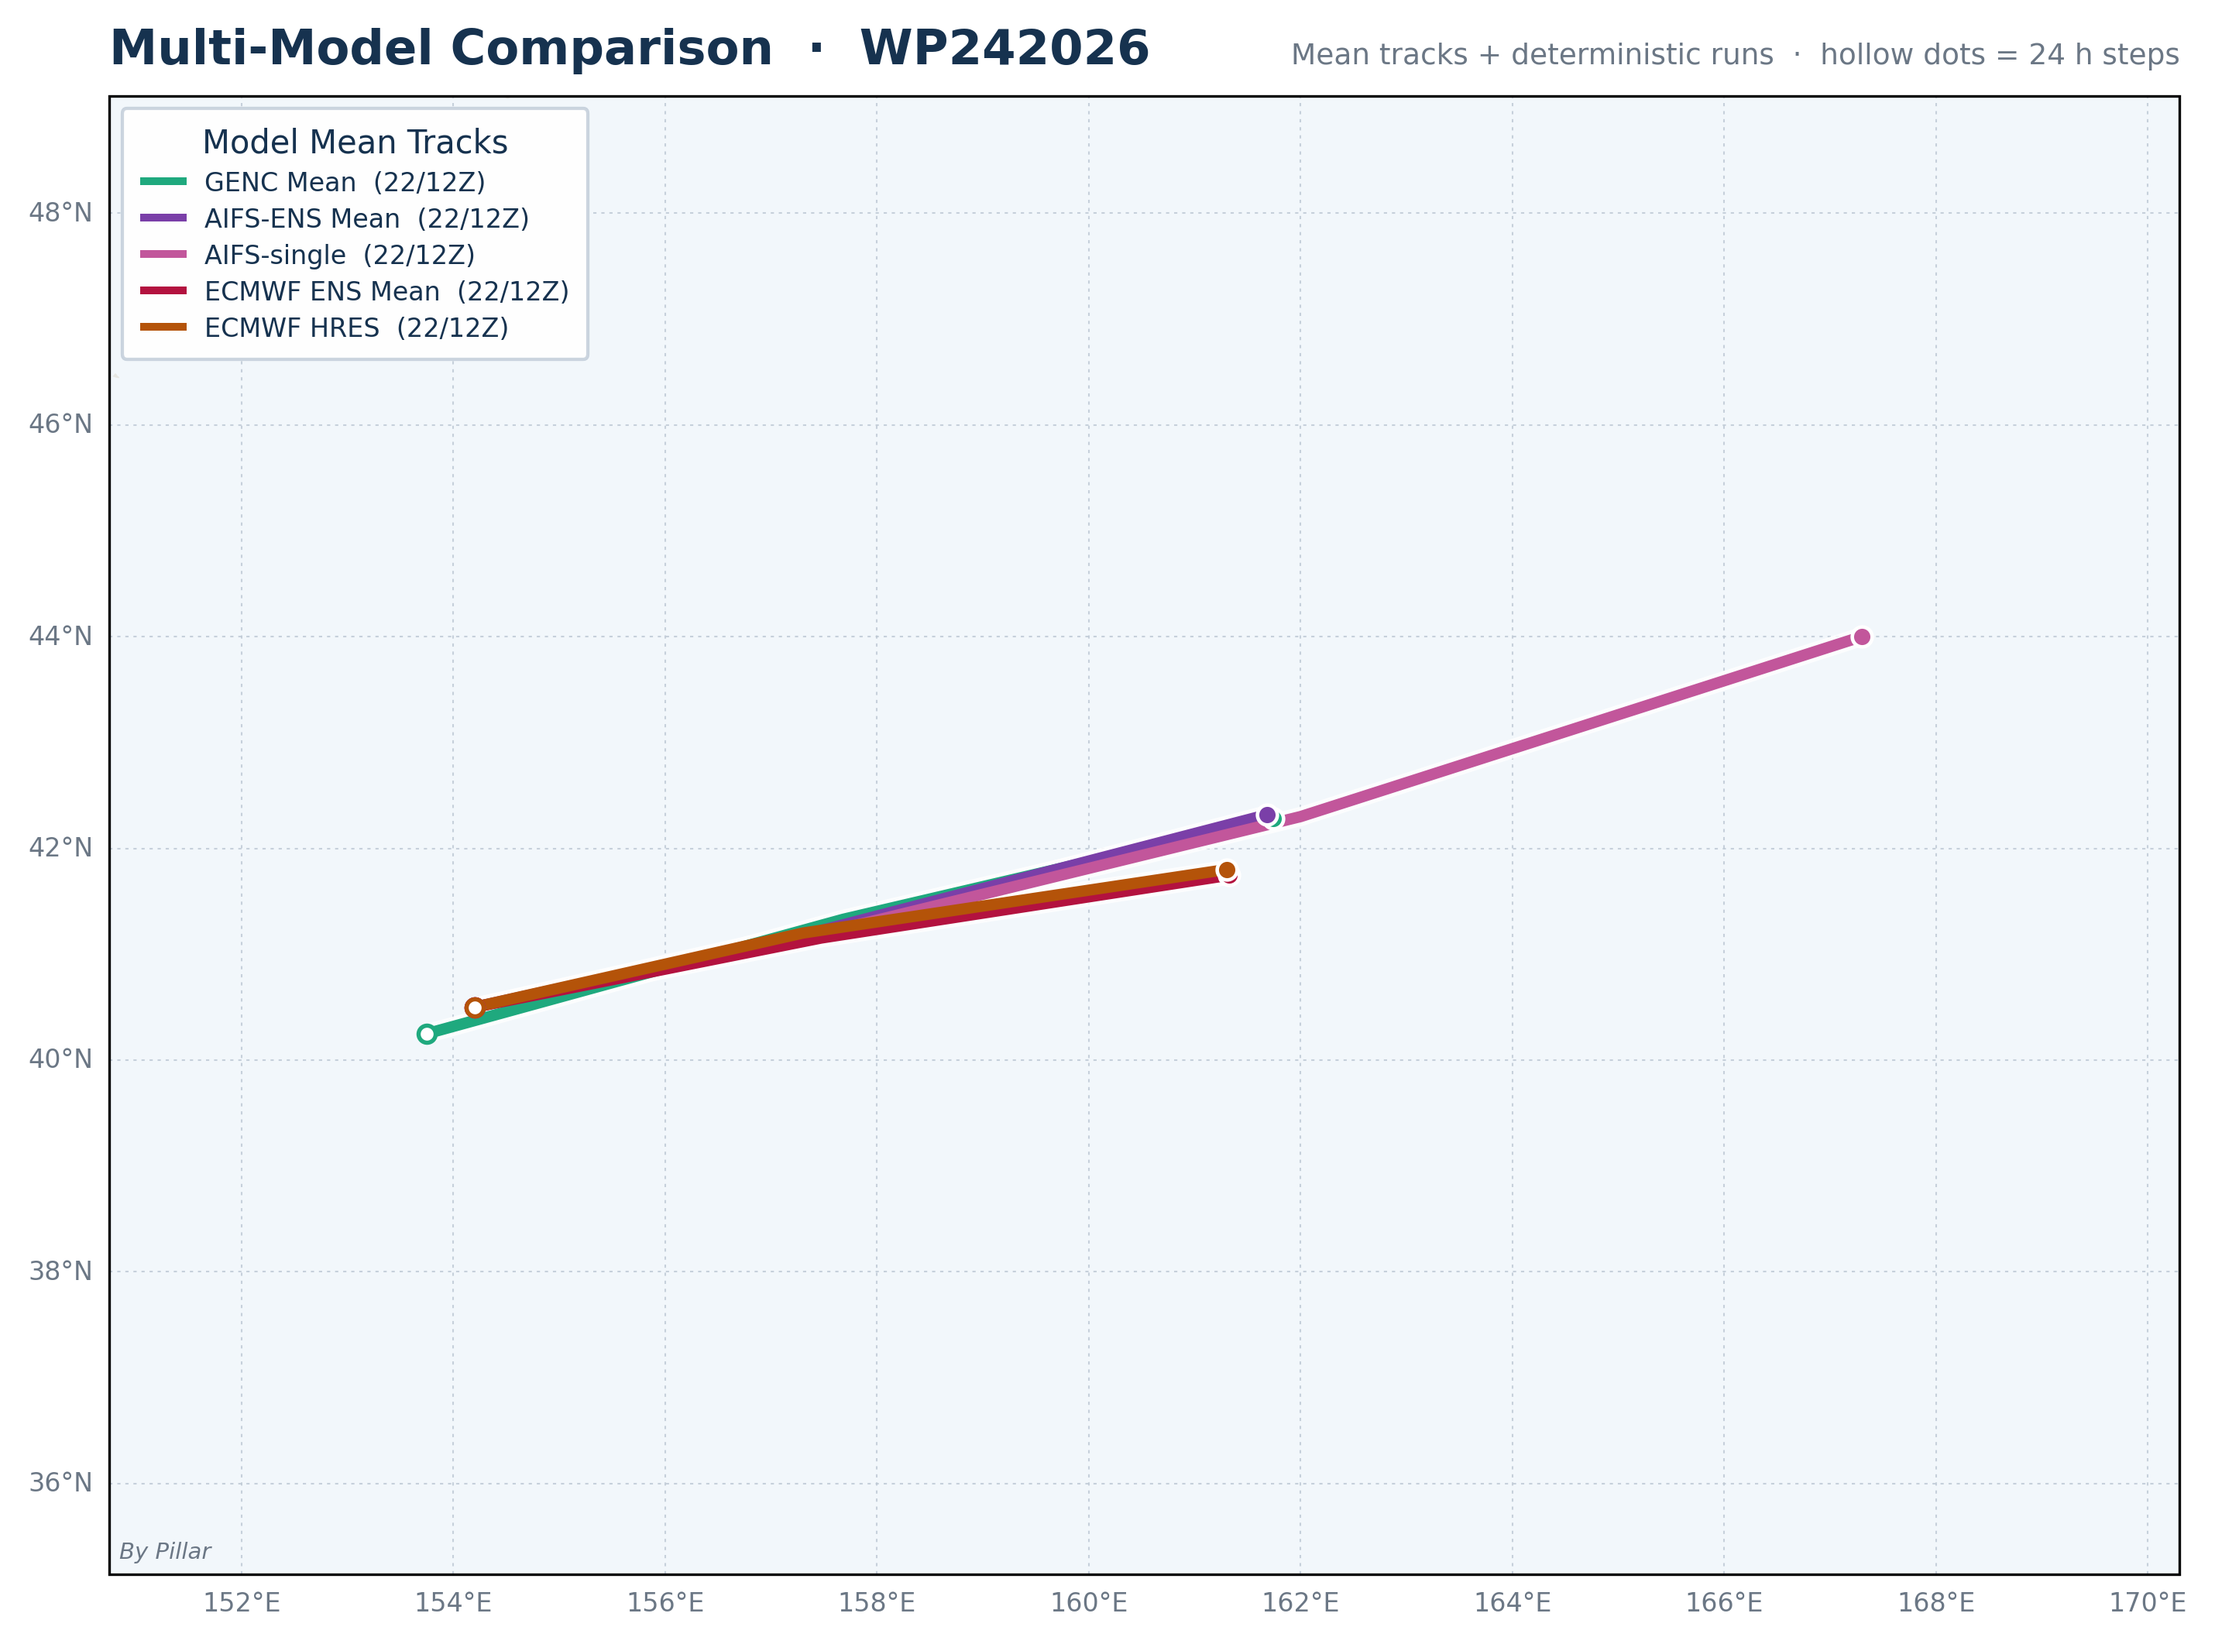
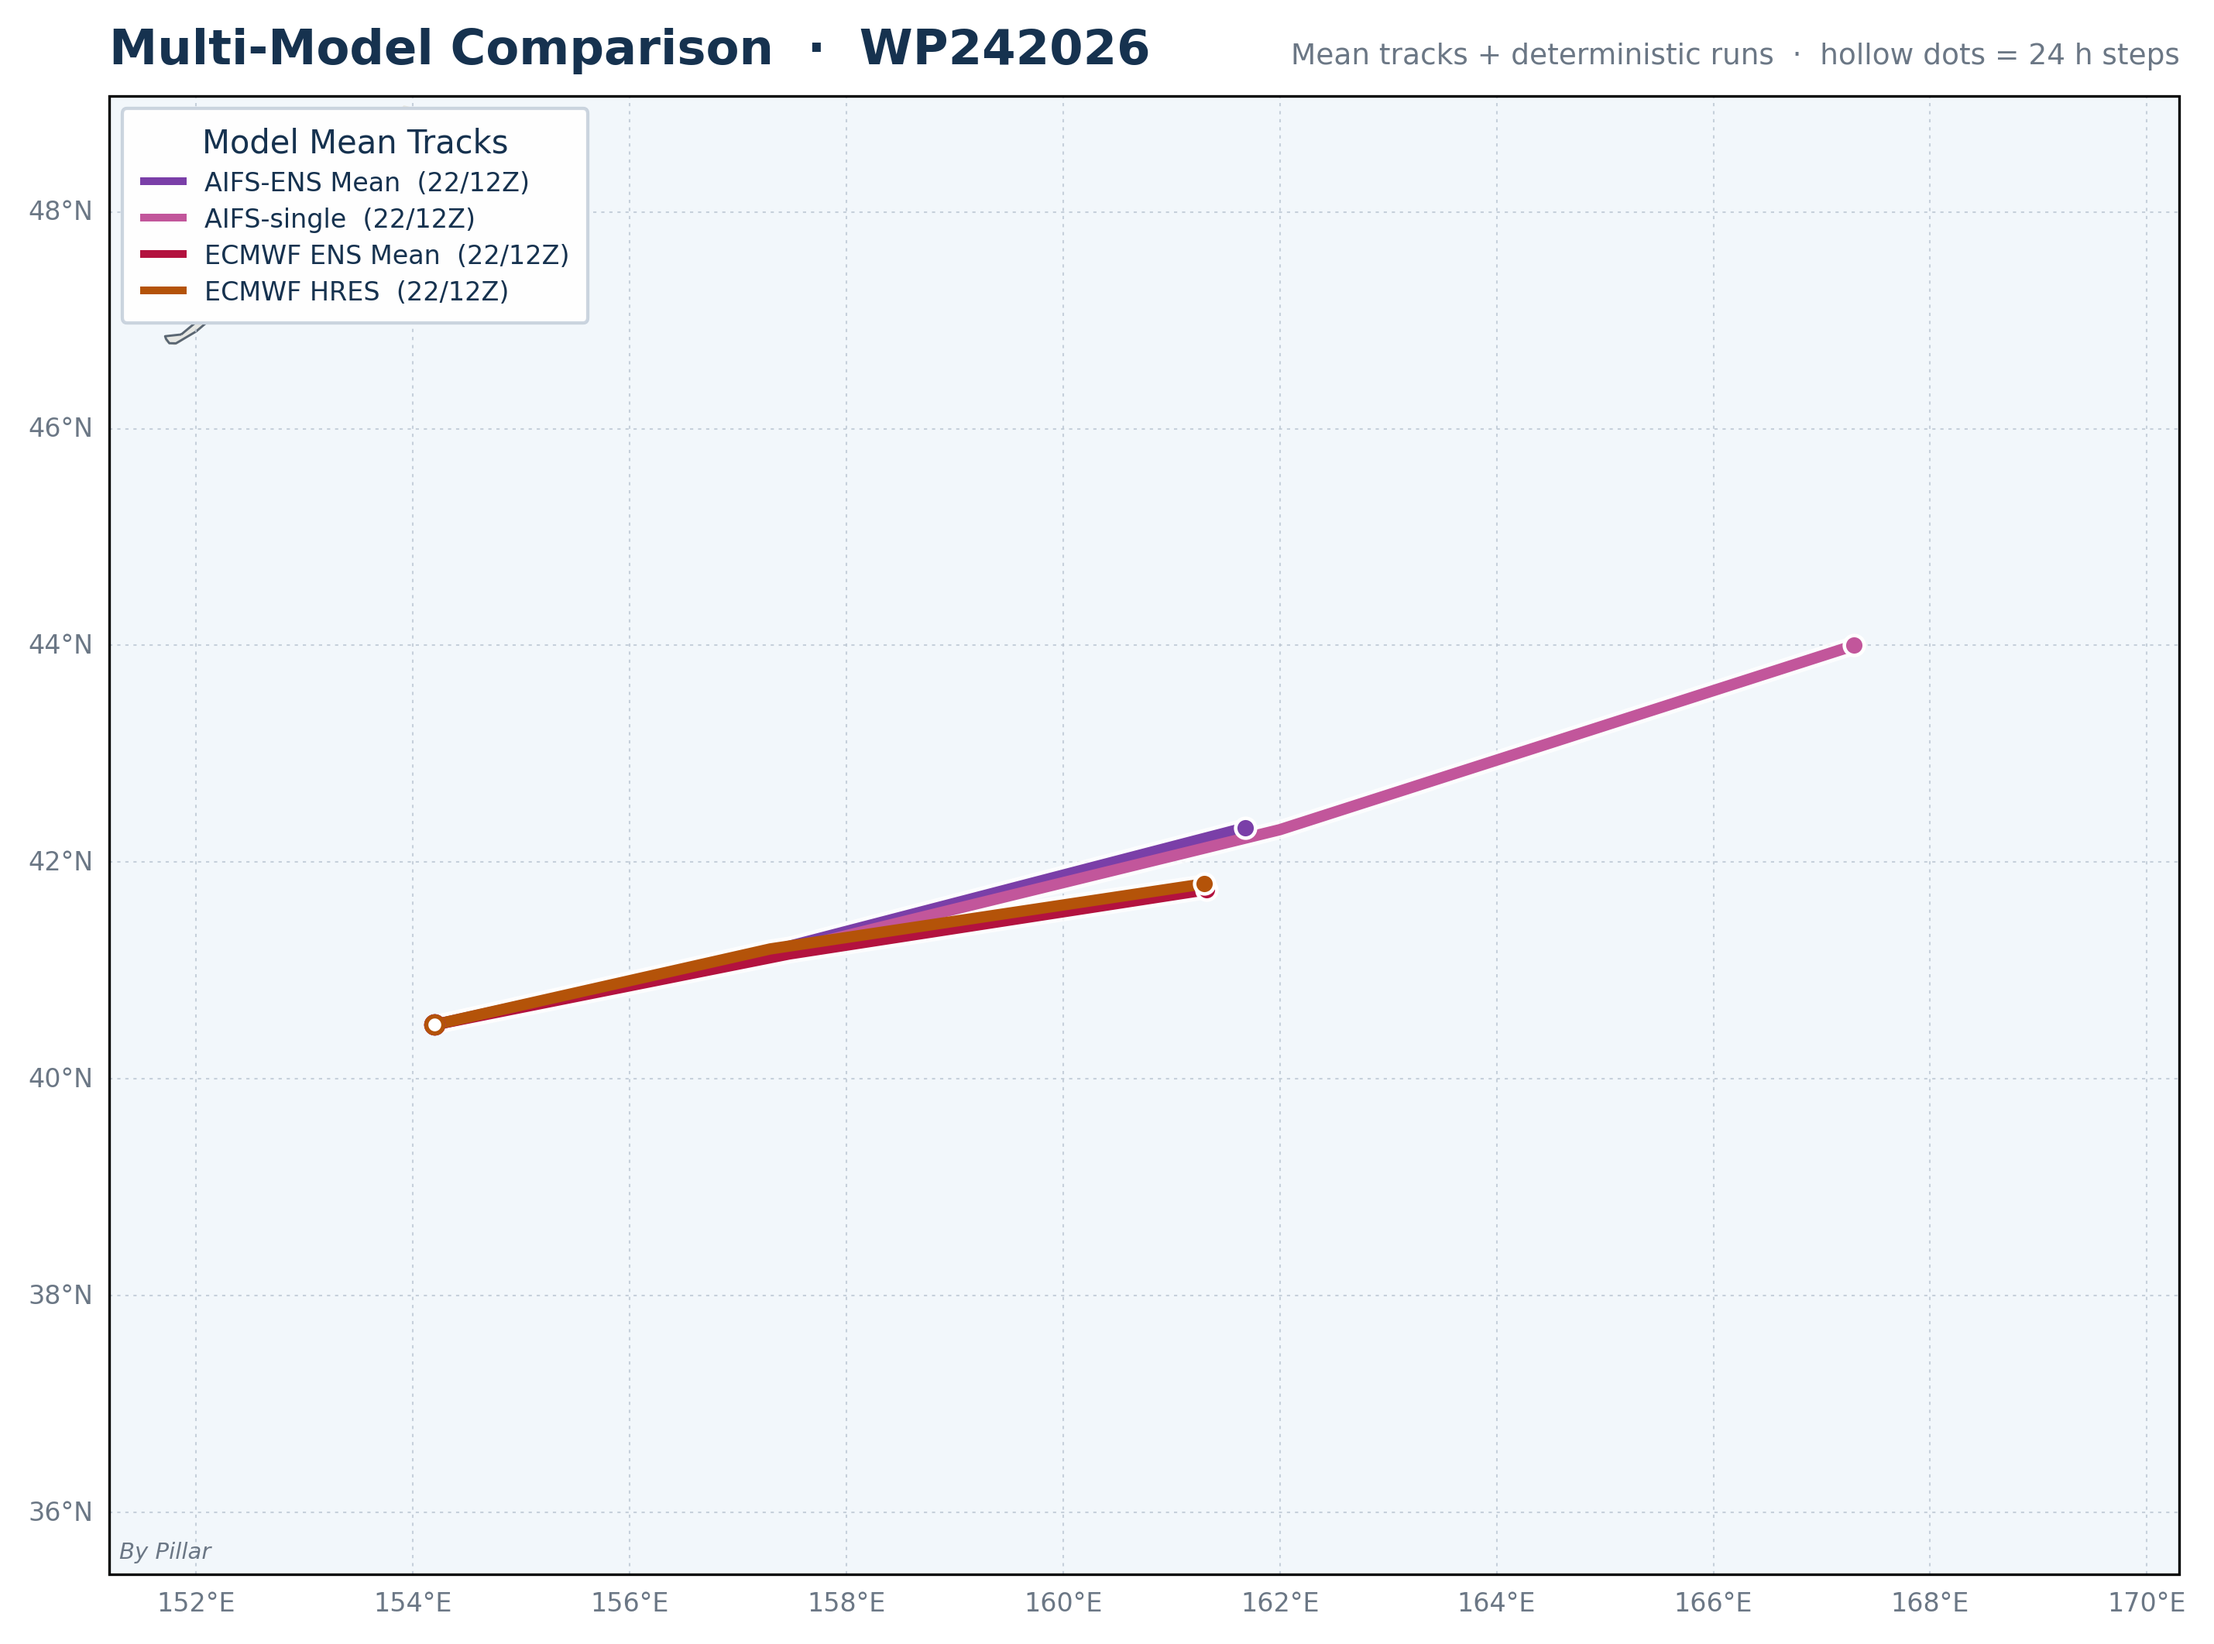
Auto update: 2026-09-23 01:30 UTC

diff --git a/docs/index.html b/docs/index.html
@@ -549,7 +549,7 @@
         <div class="header-actions">
             <div class="update-badge">
                 <span class="update-dot"></span>
-                <span data-i18n="header.updated">Updated</span>: 2026-09-23 09:00:43
+                <span data-i18n="header.updated">Updated</span>: 2026-09-23 09:30:30
             </div>
             <button class="theme-btn" onclick="toggleTheme()" id="theme-btn">🌙 Dark</button>
             <button class="theme-btn" onclick="toggleLang()" id="lang-btn"
@@ -755,48 +755,9 @@
                 </p>
             </div>
             
-<div class="model-tabs"><button class="model-tab-btn active" data-track="WP242026" data-model="GENC" onclick="switchModelTab('WP242026', 'GENC')">GENC</button><button class="model-tab-btn" data-track="WP242026" data-model="AIFS" onclick="switchModelTab('WP242026', 'AIFS')">AIFS</button><button class="model-tab-btn" data-track="WP242026" data-model="ECMWF" onclick="switchModelTab('WP242026', 'ECMWF')">ECMWF</button></div>
+<div class="model-tabs"><button class="model-tab-btn active" data-track="WP242026" data-model="AIFS" onclick="switchModelTab('WP242026', 'AIFS')">AIFS</button><button class="model-tab-btn" data-track="WP242026" data-model="ECMWF" onclick="switchModelTab('WP242026', 'ECMWF')">ECMWF</button></div>
 
-            <div class="panel model-panel" data-track="WP242026" data-model="GENC" id="anim-section-WP242026-GENC">
-                <div class="panel-header">
-                    <span class="panel-icon">🎬</span>
-                    <span data-i18n="panel.anim" data-i18n-model="GENC">GENC Track Evolution Animation</span>
-                </div>
-                <div class="animation-player">
-                    <div class="frame-wrapper" onclick="openLightbox(document.getElementById('animation-frame-WP242026-GENC').src)">
-                        <img id="animation-frame-WP242026-GENC"
-                             src="animation_frames_GENC_WP242026/frame_0000.png"
-                             alt="Animation Frame"
-                             class="animation-frame"
-                             data-frames-dir="animation_frames_GENC_WP242026"
-                             data-all-frames='["frame_0000.png", "frame_0001.png", "frame_0002.png", "frame_0003.png", "frame_0004.png"]'>
-                        <div class="zoom-hint" data-i18n="zoom.hint">🔍 Click to enlarge</div>
-                    </div>
-                    <div class="player-controls">
-                        <div class="controls-row">
-                            <button class="control-btn" onclick="playAnimation('WP242026-GENC')" id="btn-play-WP242026-GENC" data-i18n="btn.play">▶ Play</button>
-                            <button class="control-btn secondary" onclick="pauseAnimation('WP242026-GENC')" data-i18n="btn.pause">⏸ Pause</button>
-                            <button class="control-btn secondary" onclick="resetAnimation('WP242026-GENC')" data-i18n="btn.reset">⟲ Reset</button>
-                            <div class="progress-bar-container">
-                                <input type="range" id="progress-WP242026-GENC" class="progress-slider"
-                                       min="0" max="4" value="0"
-                                       oninput="seekFrame('WP242026-GENC', this.value)">
-                                <span id="frame-counter-WP242026-GENC" class="frame-counter">1/5</span>
-                            </div>
-                        </div>
-                        <div class="controls-row speed-row">
-                            <span class="speed-label" data-i18n="label.speed">⚡ Speed:</span>
-                            <input type="range" id="speed-WP242026-GENC" class="speed-slider"
-                                   min="1" max="8" value="2" step="0.5"
-                                   oninput="updateSpeed('WP242026-GENC', this.value)">
-                            <span id="speed-val-WP242026-GENC" class="speed-value">2×</span>
-                            <span class="kbd-hint" data-i18n="kbd.hint"><kbd>Space</kbd> play/pause &nbsp;<kbd>←</kbd><kbd>→</kbd> seek</span>
-                        </div>
-                    </div>
-                </div>
-            </div>
-
-            <div class="panel model-panel" data-track="WP242026" data-model="AIFS" style="display:none;" id="anim-section-WP242026-AIFS">
+            <div class="panel model-panel" data-track="WP242026" data-model="AIFS" id="anim-section-WP242026-AIFS">
                 <div class="panel-header">
                     <span class="panel-icon">🎬</span>
                     <span data-i18n="panel.anim" data-i18n-model="AIFS">AIFS Track Evolution Animation</span>
@@ -881,19 +842,7 @@
                         <span data-i18n="panel.ensemble">Ensemble Track Forecast</span>
                     </div>
                     
-                <div class="model-panel" data-track="WP242026" data-model="GENC">
-                    <div class="map-image-wrapper" onclick="openLightbox(this.querySelector('img').src)">
-                        <img src="GENC_WP242026_Forecast_Map.png" alt="WP242026 GENC Forecast Map" class="map-image"
-                             onload="this.classList.remove('loading')" onerror="this.classList.add('img-error')">
-                        <div class="zoom-hint" data-i18n="zoom.hint">🔍 Click to enlarge</div>
-                    </div>
-                    <p class="map-note" data-i18n="note.ensemble" data-i18n-model="GENC">
-                        GENC &nbsp;·&nbsp; Gray lines = ensemble members &nbsp;·&nbsp;
-                        Navy line = ensemble mean &nbsp;·&nbsp; Shaded cone = track uncertainty &nbsp;·&nbsp;
-                        Dots = 6-hr intensity (filled ≥ 34 kt) &nbsp;·&nbsp; ★ = initial position
-                    </p>
-                </div>
-                <div class="model-panel" data-track="WP242026" data-model="AIFS" style="display:none;">
+                <div class="model-panel" data-track="WP242026" data-model="AIFS">
                     <div class="map-image-wrapper" onclick="openLightbox(this.querySelector('img').src)">
                         <img src="AIFS_WP242026_Forecast_Map.png" alt="WP242026 AIFS Forecast Map" class="map-image"
                              onload="this.classList.remove('loading')" onerror="this.classList.add('img-error')">
